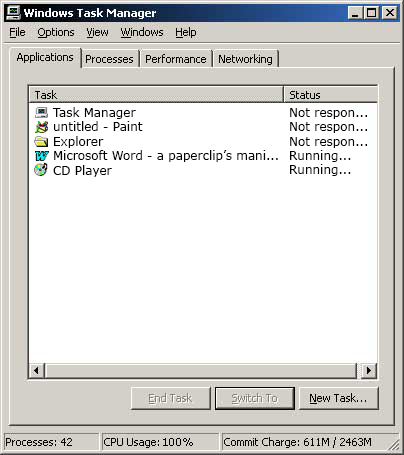
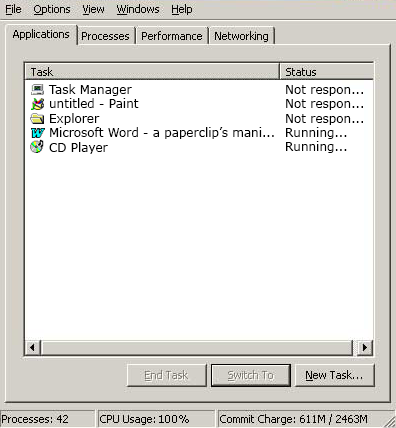
updated config, cropped windows, fixed drag bar, auto add drag bar to window templates, etc

Changed region(s): [[0.0, 0.0, 1.0, 1.0]]

diff --git a/src/main/resources/static/js/window.js b/src/main/resources/static/js/window.js
@@ -15,7 +15,7 @@
 *		y: The y-position of the Window, in pixels. Note that this is relative to the containing
 *		   div, and that the 0-position is the topmost edge of that div.
 */
-function Window(element, x, y) {
+function Window(element, x, y, draggable) {
 	this.winId = 0;
 	this.element = element;
 	this.close = null;
@@ -39,12 +39,22 @@ function Window(element, x, y) {
 		this.element.classList.add("window");
 	}
 
-	// Dragging
-	this.mouse_offset_x = 0;
-	this.mouse_offset_y = 0;
-	this.dragbar = $(this.element).find(".dragbar");
-	this.dragbar.mousedown($.proxy(this.mouseDown, this));
-	$(window).mouseup($.proxy(this.mouseUp, this));
+	if (draggable) {
+		var dragDiv = '<div class="dragbar clearfix">'
+						+ '<span class="title"></span>'
+				        + '<div class="close right button"><img src="images/close.png"></div>'
+				        + '<div class="right button"><img src="images/maximize.png"></div>'
+				        + '<div class="right button"><img src="images/minimize.png"></div></div>';
+		$(this.element).prepend(dragDiv);
+
+		// Dragging
+		this.mouse_offset_x = 0;
+		this.mouse_offset_y = 0;
+		this.dragbar = $(this.element).find(".dragbar");
+		this.dragbar.mousedown($.proxy(this.mouseDown, this));
+		$(window).mouseup($.proxy(this.mouseUp, this));
+	}
+	
 }
 
 /**

diff --git a/examples/ctrlaltdel/windows95.scene/windows95.html b/examples/ctrlaltdel/windows95.scene/windows95.html
@@ -1,37 +1,6 @@
 <link rel="stylesheet" href="windows95.scene/windows95.css">
 <link href='http://fonts.googleapis.com/css?family=Open+Sans:300' rel='stylesheet' type='text/css'>
 
-<style>
-body {
-  overflow: hidden;
-}
-
-.noselect {
-    -webkit-touch-callout: none;
-    -webkit-user-select: none;
-    -khtml-user-select: none;
-    -moz-user-select: none;
-    -ms-user-select: none;
-    user-select: none;
-}
-
-.hidden {
-    display: none;
-}
-
-.dragbar {
-  position: absolute;
-  top: 0;
-  left: 0;
-  width: 100%;
-  height: 20px;
-}
-
-.dragbar:hover {
-  cursor: pointer;
-}
-</style>
-
 <div id="desktop" class="noselect">
     <div id="icons">
       <div class="icon">
@@ -41,13 +10,11 @@ body {
       </div>
     </div>
 
-    <div id="explorer" class="hidden noselect">
-        <div class="dragbar"></div>
+    <div id="explorer" class="hidden noselect draggable">
         <img id="explorerContent" src="images/explorer.png">
     </div>
 
-    <div id="taskManager" class="hidden noselect">
-        <div class="dragbar"></div>
+    <div id="taskManager" class="hidden noselect draggable">
         <img src="images/taskmanager.png">
     </div>
 

diff --git a/examples/ctrlaltdel/explorer95.scene/explorer95.js b/examples/ctrlaltdel/explorer95.scene/explorer95.js
@@ -1,7 +1,6 @@
 var exported_scene = {
     id : "explorer95",
 	onPresent : function() {
-		console.log("[explorer95.js] The onPresent method of explorer95 has been called.");
 		if (!this.exportedVariables) {
 			console.error("[explorer95.js] Did not receive exported variables! This sucks...");
 			this.exportedVariables = {};
@@ -9,8 +8,6 @@ var exported_scene = {
 
 		if (this.exportedVariables.clippy == null) {
 			console.error("[explorer95.js] Clippy is missing!");
-		} else {
-			console.log("[explorer95.js] Found Clippy! Hooray!");
 		}
 
 		var clippyAgent = this.exportedVariables.clippy;
@@ -27,9 +24,9 @@ var exported_scene = {
 		    };
 		
 		var gabeThoughts = function() {
-			console.log("Playing sound 6");
-			AssetManager.getSharedInstance().play(6);
-		};
+				console.log("Playing sound 6");
+				AssetManager.getSharedInstance().play(6);
+			};
 		
 		SceneManager.performSequence([gabeThoughts], [1000]);
 
@@ -45,7 +42,6 @@ var exported_scene = {
 
 	},
 	getHTML : function() {
-		//return "explorer95.scene/explorer95.html";
 		return null;
 	},
 	requires : "windows95"

diff --git a/examples/ctrlaltdel/windows95.scene/windows95.css b/examples/ctrlaltdel/windows95.scene/windows95.css
@@ -1,3 +1,62 @@
+body {
+  overflow: hidden;
+}
+
+.noselect {
+    -webkit-touch-callout: none;
+    -webkit-user-select: none;
+    -khtml-user-select: none;
+    -moz-user-select: none;
+    -ms-user-select: none;
+    user-select: none;
+}
+
+.hidden {
+    display: none;
+}
+
+.clearfix:after {
+	 visibility: hidden;
+	 display: block;
+	 font-size: 0;
+	 content: " ";
+	 clear: both;
+	 height: 0;
+	 }
+.clearfix { display: inline-block; }
+/* start commented backslash hack \*/
+* html .clearfix { height: 1%; }
+.clearfix { display: block; }
+/* close commented backslash hack */
+
+.dragbar {
+	width:100%;
+	height: 20px;
+	position:relative;
+	background-color: #00006f;
+	color: white;
+	font-family: 'MS Sans Serif', sans-serif;
+	font-size: .8em;
+	padding: 2px;
+	box-sizing: border-box;
+}
+
+.dragbar .right {
+	float: right;
+}
+
+.dragbar:hover {
+	cursor:pointer;
+}
+
+.window {
+	position: absolute;
+	height: auto;
+	width: auto;
+	background-color: #bdbdbd;
+	border: 3px solid #bdbdbd;
+}
+
 #desktop {
 	background-color: #0E6E6C;
 	width: 100%;

diff --git a/examples/ctrlaltdel/windows95.scene/windows95.js b/examples/ctrlaltdel/windows95.scene/windows95.js
@@ -4,10 +4,12 @@ var exported_scene = {
 		var manager = new WindowManager("desktop");
 		
 		var win = manager.inflate("taskManager");
+		win.setTitle("Task Manager");
 		win.moveTo(200, 100);
 		manager.addWindow(win);
 
 		var win = manager.inflate("explorer");
+		win.setTitle("My Computer");
 		win.moveTo(150, 200);
 		manager.addWindow(win);
 		
@@ -27,7 +29,7 @@ var exported_scene = {
 				 	clippyAgent.show();
 			        clippyAgent.moveTo(200,200);
 				 	console.log("Playing sound 1");
-				 	clippyAgent.speak('Looks like your stuck inside a computer!');
+				 	clippyAgent.speak("Looks like you're stuck inside the computer!");
 				 	AssetManager.getSharedInstance().play(1);
 				 	clippyAgent.animate();
 			    }, this));
@@ -35,7 +37,7 @@ var exported_scene = {
 		
 		var clickTheX = function() {
 			clippyAgent.speak("Your windows are frozen! Click the x's!");
-			console.log("Playing sound 2");
+			console.log("Playing sound 3");
 			AssetManager.getSharedInstance().play(3);
 		};
 		

diff --git a/examples/ctrlaltdel/index.html b/examples/ctrlaltdel/index.html
@@ -10,7 +10,6 @@
 	</head>
 	<body>
 		<!-- Using SceneManager / Scene requires jQuery 1.6+ -->
-
         <script src="https://ajax.googleapis.com/ajax/libs/jquery/2.1.1/jquery.min.js"></script>
 
         <script src="https://ajax.googleapis.com/ajax/libs/jqueryui/1.11.3/jquery-ui.min.js"></script>
@@ -23,6 +22,7 @@
 		<link rel="stylesheet" href="//cdn.jsdelivr.net/clippy.js/1.0/clippy.min.css">
 		<script src="//cdn.jsdelivr.net/clippy.js/1.0/clippy.min.js"></script>
 		<script src="https://cdnjs.cloudflare.com/ajax/libs/buzz/1.1.10/buzz.min.js"></script>
+
 		<!-- Load scenemanager / scene scripts -->
 		<script src="lib/scene.js"></script>
 		<script src="lib/scenemanager.js"></script>

diff --git a/src/main/resources/static/js/windowmanager.js b/src/main/resources/static/js/windowmanager.js
@@ -99,10 +99,17 @@ WindowManager.prototype.inflate = function(template) {
 		$(template_div).addClass("windowTemplate");
 	}
 
+	// Check if window should be draggable (default to draggable)
+	var draggable = true;
+	if (!$(template_div).hasClass("draggable")) {
+		console.log("Forcing draggable to false for div: " + template);
+		draggable = false;
+	}
+
 	var copy = template_div.cloneNode(true);
 
 	// Default position of (0,0)
-	var win = new Window(copy, 0, 0);
+	var win = new Window(copy, 0, 0, draggable);
 	win.setId(this.idCount);
 	win.setXHandler($.proxy(this.removeWindow, this));
 

diff --git a/examples/paint4ever/phaser.scene/game.css b/examples/paint4ever/phaser.scene/game.css
@@ -35,7 +35,7 @@
 .dragbar {
 	width:100%;
 	height: 20px;
-	position:relative;
+	position: relative;
 	background-color: #0200a8;
 	color: white;
 	font-family: 'MS Sans Serif', sans-serif;
@@ -73,4 +73,5 @@
 	width: auto;
 	background-color: #bdbdbd;
 	border: 3px solid #bdbdbd;
+	z-index: -1;
 }
